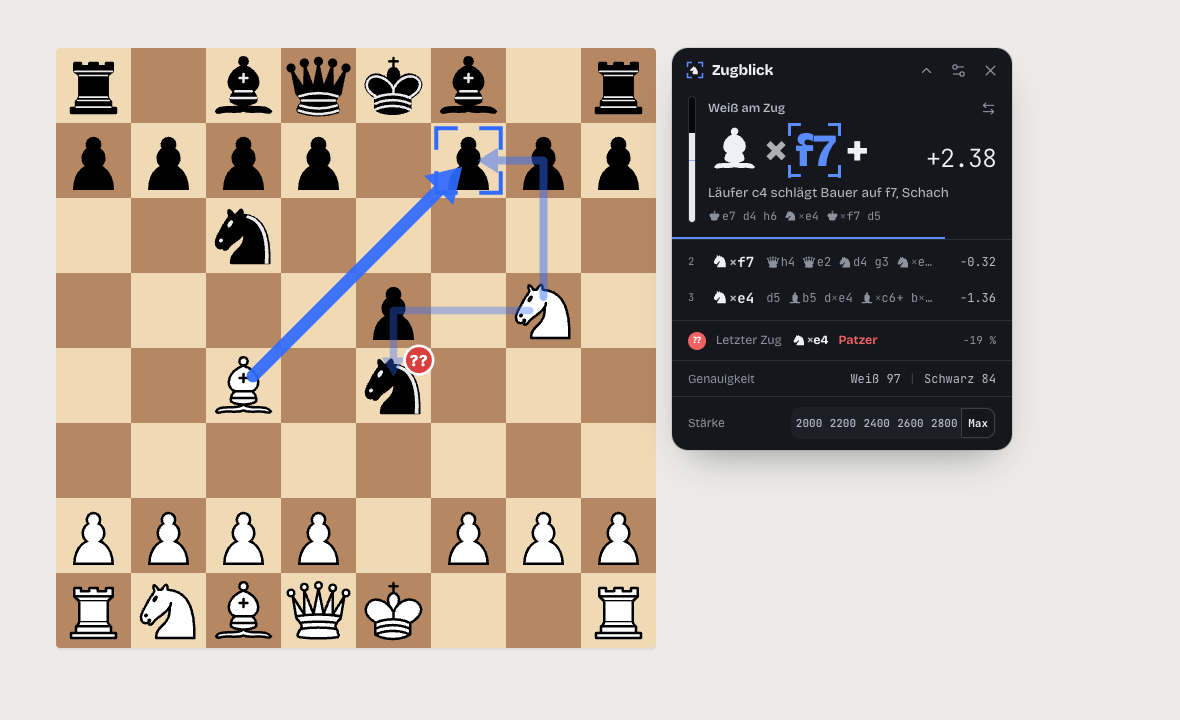
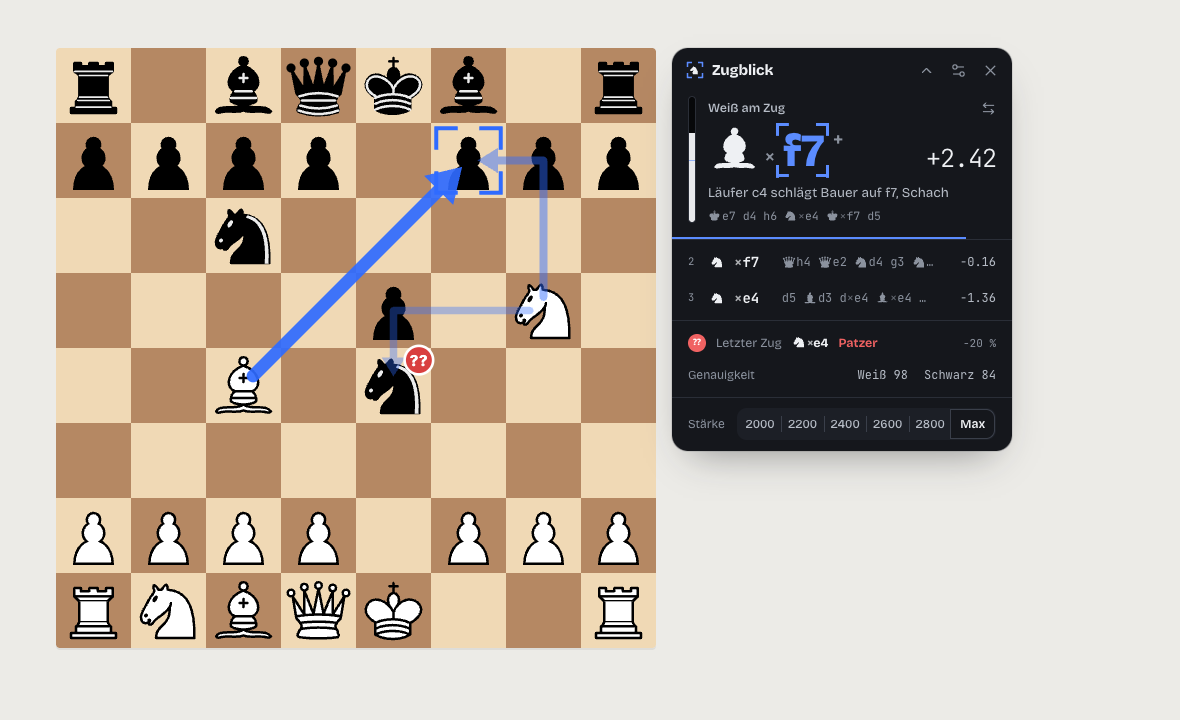
Feinschliff nach zweiter Kritikrunde: feste Figurenspalte, ruhige Stärke-Leiste, hochgestelltes Schach-Zeichen, ein Abschnitt für Bewertung und Genauigkeit, sichtbare Schalter; Version 1.0.1
Claude-Session: https://claude.ai/code/session_01HWpRVx6ehfB7Z4ZvDFF18n

diff --git a/panel/ui/Strength.tsx b/panel/ui/Strength.tsx
@@ -1,10 +1,16 @@
 import { ToggleGroup, ToggleGroupItem } from '@/components/ui/toggle-group';
 import { ELO_STEPS } from '../settings';
 
+// Gleich breite Felder, Trennstrich zwischen nicht gewählten; gewählt = weißer Chip.
+const ITEM =
+  'relative h-7 min-w-0 rounded-md px-0 text-[12px] text-ink-2 tabular-nums hover:bg-transparent hover:text-ink ' +
+  "before:absolute before:inset-y-1.5 before:left-0 before:w-px before:bg-line-strong before:content-[''] first:before:hidden " +
+  'data-[state=on]:bg-surface data-[state=on]:font-[650] data-[state=on]:text-ink data-[state=on]:shadow-[0_0_0_1px_var(--zb-line-strong)] data-[state=on]:before:hidden [&[data-state=on]+*]:before:hidden';
+
 export function Strength({ value, onChange }: { value: number | null; onChange: (elo: number | null) => void }) {
   return (
     <div className="flex items-center gap-3 border-t border-line px-4 py-2.5">
-      <span className="text-[12px] text-ink-3">Stärke</span>
+      <span className="shrink-0 text-[12px] text-ink-3">Stärke</span>
       <ToggleGroup
         type="single"
         value={value == null ? 'max' : String(value)}
@@ -12,21 +18,21 @@ export function Strength({ value, onChange }: { value: number | null; onChange: 
           if (!v) return;
           onChange(v === 'max' ? null : Number(v));
         }}
-        className="ml-auto grid w-auto grid-cols-6 gap-0.5 rounded-lg bg-sunken p-0.5"
+        className="grid min-w-0 flex-1 grid-cols-6 rounded-lg bg-sunken p-0.5"
         aria-label="Spielstärke"
       >
         {ELO_STEPS.map((elo) => (
           <ToggleGroupItem
             key={elo}
             value={String(elo)}
-            className="h-7 min-w-0 rounded-md px-0 font-mono text-[11px] text-ink-2 tabular-nums hover:bg-transparent hover:text-ink data-[state=on]:bg-surface data-[state=on]:font-[650] data-[state=on]:text-ink data-[state=on]:shadow-[0_0_0_1px_var(--zb-line-strong)]"
+            className={ITEM}
           >
             {elo}
           </ToggleGroupItem>
         ))}
         <ToggleGroupItem
           value="max"
-          className="h-7 min-w-0 rounded-md px-1.5 font-mono text-[11px] text-ink-2 hover:bg-transparent hover:text-ink data-[state=on]:bg-surface data-[state=on]:font-[650] data-[state=on]:text-ink data-[state=on]:shadow-[0_0_0_1px_var(--zb-line-strong)]"
+          className={ITEM}
         >
           Max
         </ToggleGroupItem>

diff --git a/panel/ui/Lines.tsx b/panel/ui/Lines.tsx
@@ -1,7 +1,19 @@
 import { cn } from '@/lib/utils';
 import type { State } from '../controller';
 import { formatScore } from '../notation';
-import { San } from './Figurine';
+import { PieceIcon, San } from './Figurine';
+
+/** Zug in zwei festen Spalten: Figur (bei Bauern leer) und Rest – so beginnt jede Zeile gleich. */
+function MoveCells({ san }: { san: string }) {
+  const piece = /^[KQRBN]/.test(san) ? san[0]! : '';
+  const rest = piece ? san.slice(1) : san;
+  return (
+    <>
+      <span className="flex w-[14px] justify-center text-ink">{piece && <PieceIcon code={piece} className="size-[14px] align-middle" />}</span>
+      <San san={rest.startsWith('O-O') ? rest : rest} color="w" className="min-w-[4.5ch] font-mono text-[14px] font-[650] text-ink" />
+    </>
+  );
+}
 
 /** Fortsetzung einer Variante in einer Zeile, am Ende mit „…“ abgeschnitten. */
 export function Continuation({ moves, turn, className }: { moves: string[]; turn: 'w' | 'b'; className?: string }) {
@@ -29,11 +41,11 @@ export function Lines({ state: s, onPreview }: { state: State; onPreview: (uci: 
             key={l.rank}
             onMouseEnter={() => onPreview(l.move.uci)}
             className={cn(
-              'grid h-9 cursor-default grid-cols-[12px_auto_minmax(0,1fr)_48px] items-center gap-x-3 px-4 transition-colors duration-150 hover:bg-sunken',
+              'grid h-9 cursor-default grid-cols-[12px_14px_auto_minmax(0,1fr)_48px] items-center gap-x-2.5 px-4 transition-colors duration-150 hover:bg-sunken',
             )}
           >
             <span className="font-mono text-[10.5px] text-ink-3 tabular-nums">{l.rank}</span>
-            <San san={l.move.san} color={s.turn} className="font-mono text-[14px] font-[650] text-ink" />
+            <MoveCells san={l.move.san} />
             <Continuation moves={l.cont} turn={s.turn} />
             <span className="text-right font-mono text-[12px] text-ink-2 tabular-nums">{formatScore(l.white)}</span>
           </li>

diff --git a/components/ui/switch.tsx b/components/ui/switch.tsx
@@ -14,7 +14,7 @@ function Switch({
       data-slot="switch"
       data-size={size}
       className={cn(
-        "peer group/switch inline-flex shrink-0 items-center rounded-full border border-transparent shadow-xs transition-all outline-none focus-visible:border-ring focus-visible:ring-[3px] focus-visible:ring-ring/50 disabled:cursor-not-allowed disabled:opacity-50 data-[size=default]:h-[1.15rem] data-[size=default]:w-8 data-[size=sm]:h-3.5 data-[size=sm]:w-6 data-[state=checked]:bg-primary data-[state=unchecked]:bg-line-strong",
+        "peer group/switch inline-flex shrink-0 items-center rounded-full border border-transparent shadow-xs transition-all outline-none focus-visible:border-ring focus-visible:ring-[3px] focus-visible:ring-ring/50 disabled:cursor-not-allowed disabled:opacity-50 data-[size=default]:h-[1.15rem] data-[size=default]:w-8 data-[size=sm]:h-3.5 data-[size=sm]:w-6 data-[state=checked]:bg-primary data-[state=unchecked]:border-[var(--zb-switch-off-border)] data-[state=unchecked]:bg-[var(--zb-switch-off-track)]",
         className
       )}
       {...props}
@@ -22,7 +22,7 @@ function Switch({
       <SwitchPrimitive.Thumb
         data-slot="switch-thumb"
         className={cn(
-          "pointer-events-none block rounded-full bg-[var(--zb-knob)] shadow-[0_1px_2px_rgba(0,0,0,.25)] ring-0 transition-transform group-data-[size=default]/switch:size-4 group-data-[size=sm]/switch:size-3 data-[state=checked]:translate-x-[calc(100%-2px)] data-[state=unchecked]:translate-x-0"
+          "pointer-events-none block rounded-full bg-[var(--zb-knob)] shadow-[0_1px_2px_rgba(0,0,0,.25)] data-[state=unchecked]:bg-[var(--zb-switch-off-knob)] data-[state=unchecked]:shadow-none ring-0 transition-transform group-data-[size=default]/switch:size-4 group-data-[size=sm]/switch:size-3 data-[state=checked]:translate-x-[calc(100%-2px)] data-[state=unchecked]:translate-x-0"
         )}
       />
     </SwitchPrimitive.Root>

diff --git a/panel/ui/Extras.tsx b/panel/ui/Extras.tsx
@@ -88,7 +88,7 @@ export function LastMoveStrip({ state: s }: { state: State }) {
   const last = s.last!;
   const q = last.quality!;
   return (
-    <div className="flex h-10 items-center gap-2.5 border-t border-line px-4 text-[12.5px]">
+    <div className="flex h-8 items-center gap-2.5 px-4 text-[12.5px]">
       <QualityDot tone={q.tone} glyph={q.glyph} />
       <span className="text-ink-3">Letzter Zug</span>
       <San san={last.move.san} color={last.mover} className="font-[700] text-ink" />
@@ -119,12 +119,11 @@ export function GameStrip({ state: s }: { state: State }) {
   const { w, b } = s.accuracy;
   if (s.moves.length < 4 || (w == null && b == null)) return null;
   return (
-    <div className="flex h-9 items-center gap-3 border-t border-line px-4 text-[12px]">
+    <div className="flex h-8 items-center gap-3 px-4 text-[12px]">
       <span className="text-ink-3">Genauigkeit</span>
-      <span className="ml-auto font-mono text-ink-2 tabular-nums">
-        Weiß {w ?? '–'}
-        <span className="mx-2 text-line-strong">|</span>
-        Schwarz {b ?? '–'}
+      <span className="ml-auto flex gap-4 font-mono text-ink-2 tabular-nums">
+        <span>Weiß {w ?? '–'}</span>
+        <span>Schwarz {b ?? '–'}</span>
       </span>
     </div>
   );

diff --git a/panel/ui/App.tsx b/panel/ui/App.tsx
@@ -133,8 +133,12 @@ export function App({ controller, send }: { controller: Controller; send: (m: To
                 {s.piece && <PieceCard state={s} onClear={() => controller.select(null)} />}
                 <Lines state={s} onPreview={(u) => controller.setPreview(u)} />
                 {settings.threat && s.threat && <ThreatStrip state={s} />}
-                {settings.quality && s.last?.quality && <LastMoveStrip state={s} />}
-                <GameStrip state={s} />
+                {((settings.quality && s.last?.quality) || s.moves.length >= 4) && (
+                  <div className="border-t border-line py-1.5 empty:hidden">
+                    {settings.quality && s.last?.quality && <LastMoveStrip state={s} />}
+                    <GameStrip state={s} />
+                  </div>
+                )}
                 <VisionStrip state={s} send={send} />
               </div>
             )}

diff --git a/panel/ui/Hero.tsx b/panel/ui/Hero.tsx
@@ -169,6 +169,8 @@ export function Hero({ state: s, controller, send }: { state: State; controller:
                   'zb-rise text-[46px] leading-[0.95] font-[800] tracking-[-0.035em]',
                   mine ? 'text-ink' : 'text-ink-2',
                   '[&_.zb-target]:text-[var(--zb-accent)]',
+                  '[&_[data-part=x]]:mx-[0.06em] [&_[data-part=x]]:align-[0.12em] [&_[data-part=x]]:text-[0.43em] [&_[data-part=x]]:font-[500] [&_[data-part=x]]:text-ink-3 [&_[data-part=x]]:opacity-100',
+                  '[&_[data-part=sfx]]:ml-[0.08em] [&_[data-part=sfx]]:align-[0.95em] [&_[data-part=sfx]]:text-[0.45em] [&_[data-part=sfx]]:font-[600] [&_[data-part=sfx]]:text-ink-3',
                   !mine && '[&_.zb-target]:text-opponent',
                 )}
               />

diff --git a/panel/ui/Figurine.tsx b/panel/ui/Figurine.tsx
@@ -42,7 +42,7 @@ export function San({
     <span className={cn('whitespace-nowrap', className)}>
       {piece && <PieceIcon code={piece} className="mr-[0.06em]" />}
       {disamb}
-      {capture && <span className="opacity-70">×</span>}
+      {capture && <span data-part="x" className="opacity-70">×</span>}
       <span className={framed ? 'zb-target' : undefined}>{target}</span>
       {promo && (
         <>
@@ -50,7 +50,11 @@ export function San({
           <PieceIcon code={promo} />
         </>
       )}
-      {suffix && <span className="ml-[0.04em]">{suffix}</span>}
+      {suffix && (
+        <span data-part="sfx" className="ml-[0.04em]">
+          {suffix}
+        </span>
+      )}
     </span>
   );
 }

diff --git a/entrypoints/panel/style.css b/entrypoints/panel/style.css
@@ -26,6 +26,9 @@
   --zb-bar-white: #f4f4f5;
   --zb-bar-black: #1a1d23;
   --zb-knob: #fafafa;
+  --zb-switch-off-track: #f3f4f6;
+  --zb-switch-off-border: #8e8e93;
+  --zb-switch-off-knob: #8e8e93;
 
   --background: var(--zb-surface);
   --foreground: var(--zb-ink);
@@ -64,6 +67,9 @@
   --zb-blunder: #f06262;
   --zb-bar-white: #e8e9ec;
   --zb-bar-black: #07080a;
+  --zb-switch-off-track: #3a3f4a;
+  --zb-switch-off-border: transparent;
+  --zb-switch-off-knob: #fafafa;
 }
 
 @theme inline {
